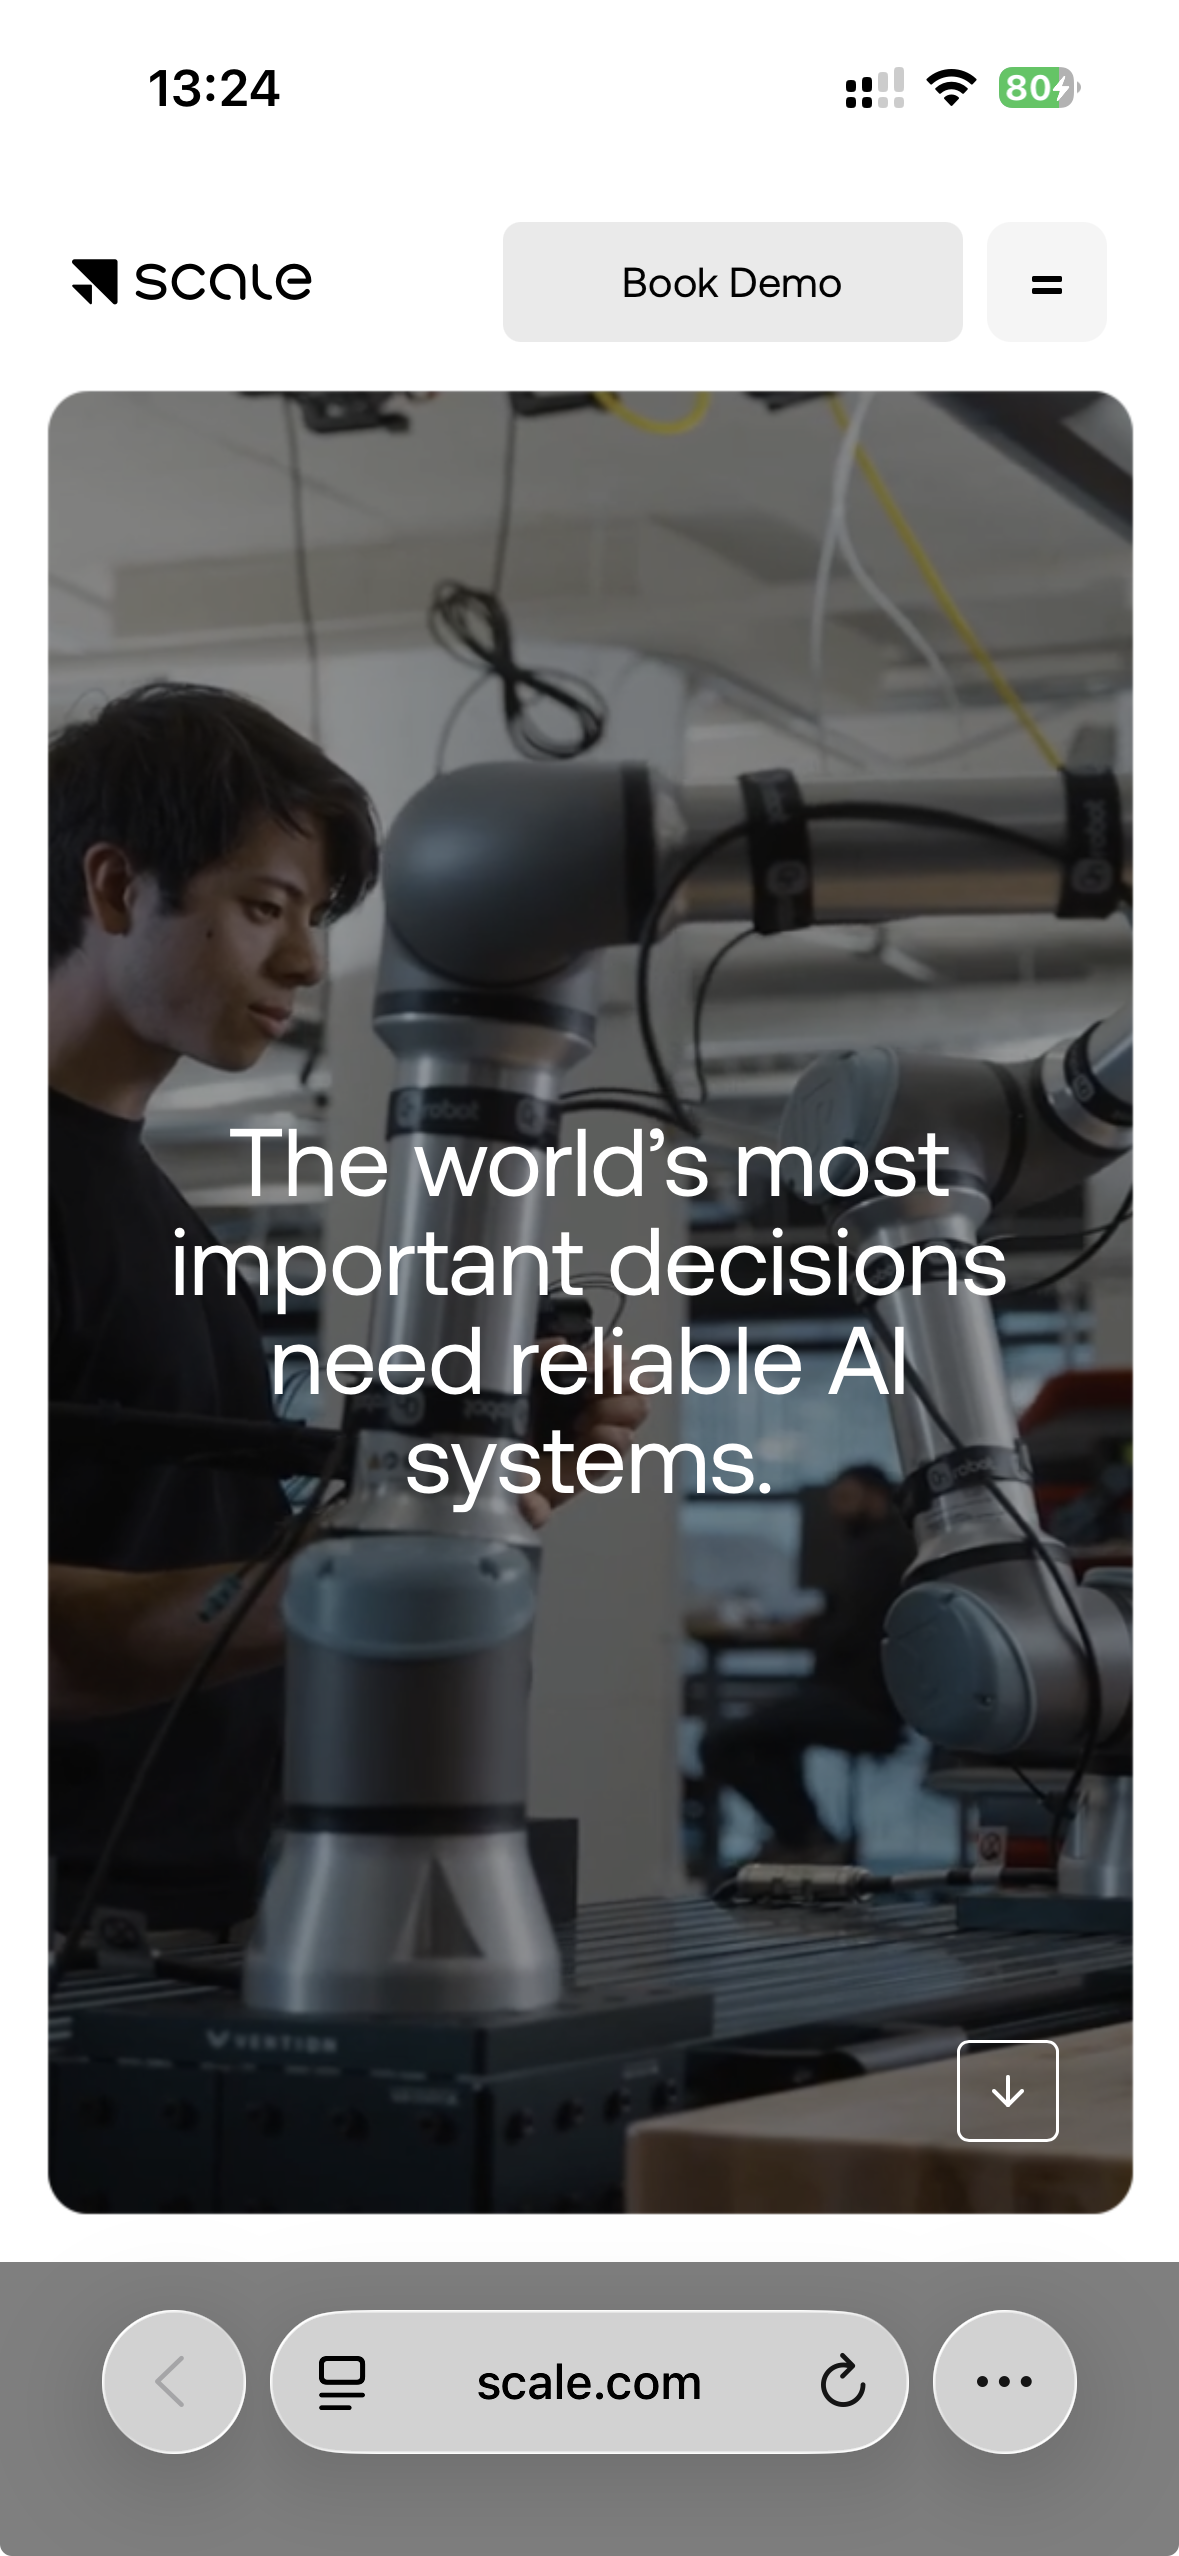
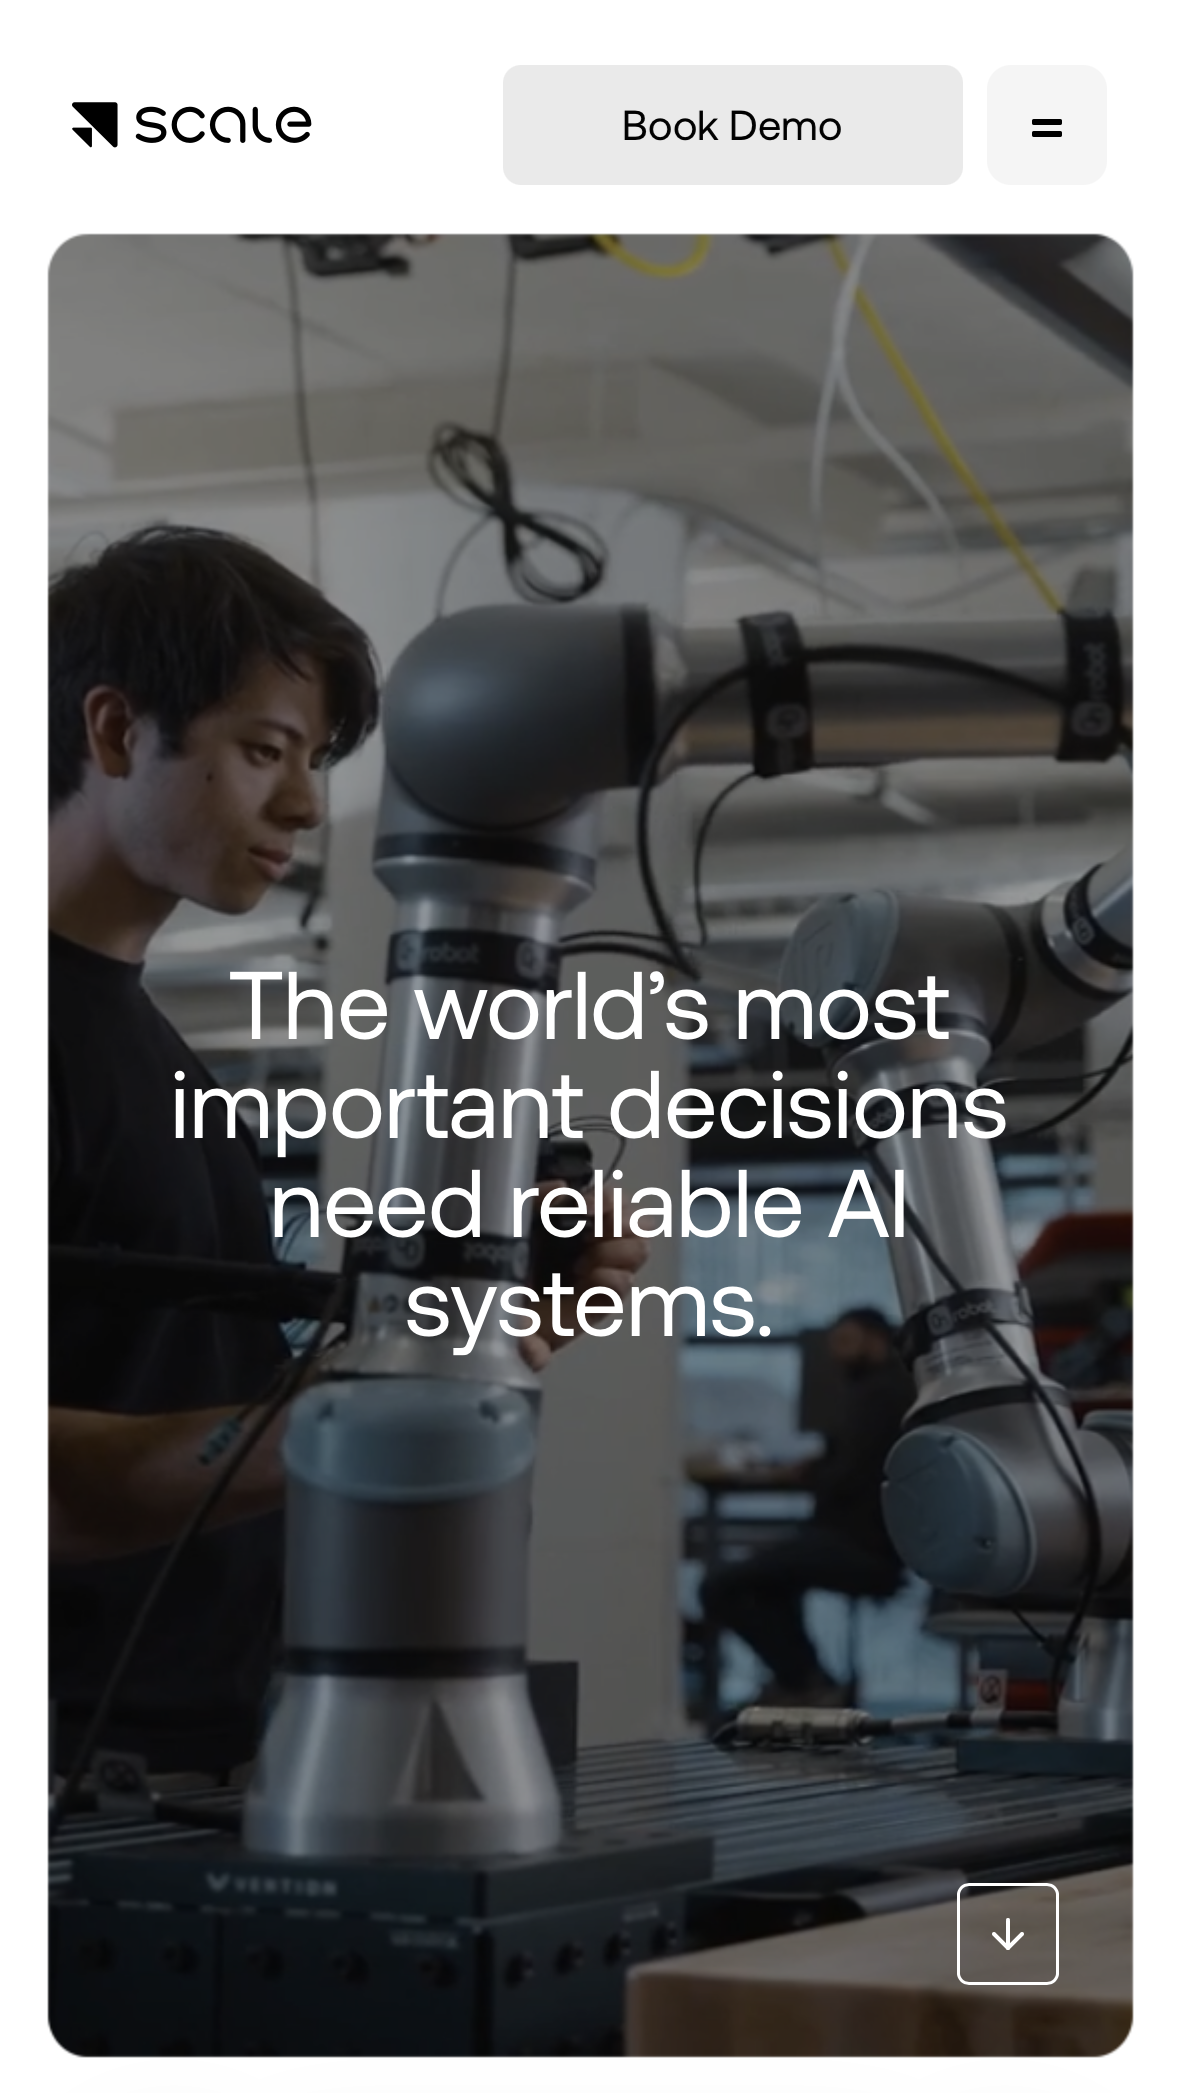
Polish preview navigation and mobile mockup

diff --git a/src/components/BrandPreview.tsx b/src/components/BrandPreview.tsx
@@ -39,11 +39,11 @@ export function BrandLockup({ variant }: { variant: LogoVariant }) {
 
 export function PreviewSwitcher({ active }: { active: LogoVariant | "scale" | "landing" }) {
   const links = [
-    { label: "Logo 1", href: "/1", value: "1" },
-    { label: "Logo 2", href: "/2", value: "2" },
-    { label: "Logo 3", href: "/3", value: "3" },
+    { label: "Logo", href: "/1", value: "1" },
+    { label: "Color", href: "/2", value: "2" },
+    { label: "Full wordmark", href: "/3", value: "3" },
     { label: "Landing", href: "/landing-exploration1", value: "landing" },
-    { label: "Scale", href: "/scale", value: "scale" },
+    { label: "Scale mockup", href: "/scale", value: "scale" },
   ] as const;
 
   return (

diff --git a/src/app/(previews)/scale/page.tsx b/src/app/(previews)/scale/page.tsx
@@ -42,12 +42,12 @@ export default function ScaleContextPage() {
           src="/mockups/scale-homepage-reference-mobile.png"
           alt="Mobile Scale website reference with the Human Archive logo applied for presentation"
           width={1179}
-          height={2556}
+          height={2093}
           priority
           className="h-auto w-full"
         />
 
-        <div className="absolute top-[8.2%] left-[4.1%] flex h-[5.3%] w-[26.5%] items-center bg-white px-[0.5%]">
+        <div className="absolute top-[3%] left-[4.1%] flex h-[5.8%] w-[26.5%] items-center bg-white px-[0.5%]">
           <span
             className="block h-full w-full bg-white bg-center bg-no-repeat"
             style={{

diff --git a/src/app/(marketing)/page.tsx b/src/app/(marketing)/page.tsx
@@ -1,5 +1,11 @@
 import { Hero } from "@/components/Hero";
+import { PreviewSwitcher } from "@/components/BrandPreview";
 
 export default function Home() {
-  return <Hero />;
+  return (
+    <>
+      <Hero />
+      <PreviewSwitcher active="landing" />
+    </>
+  );
 }
